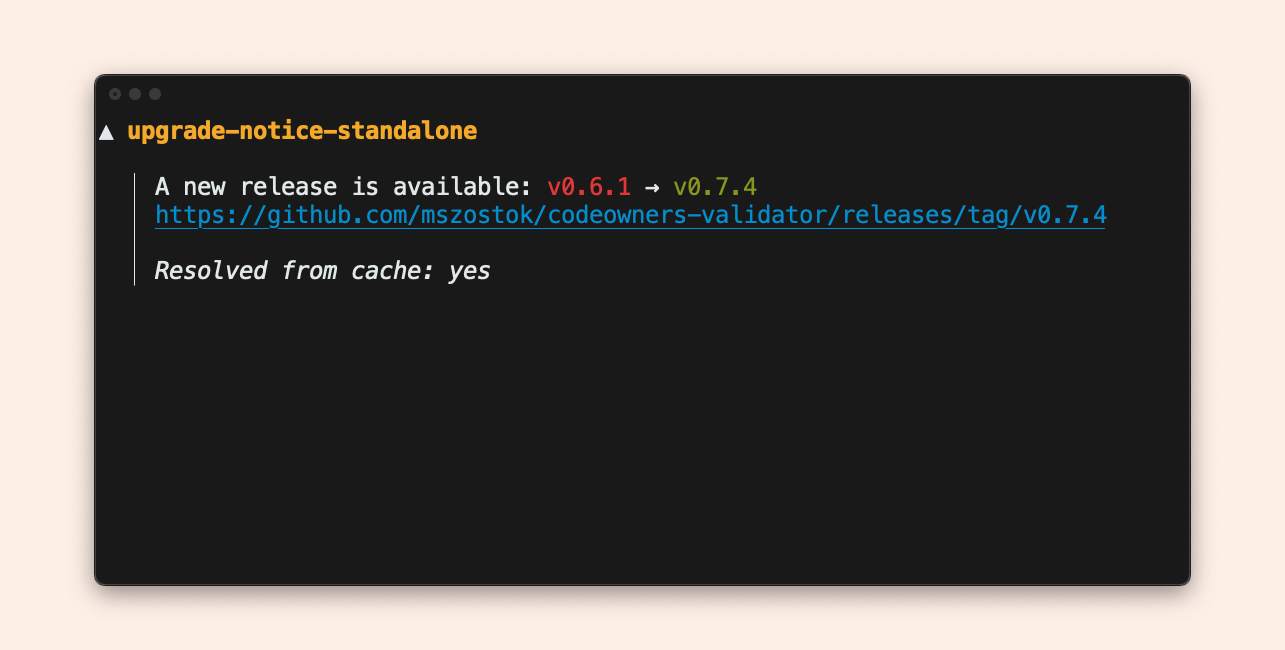
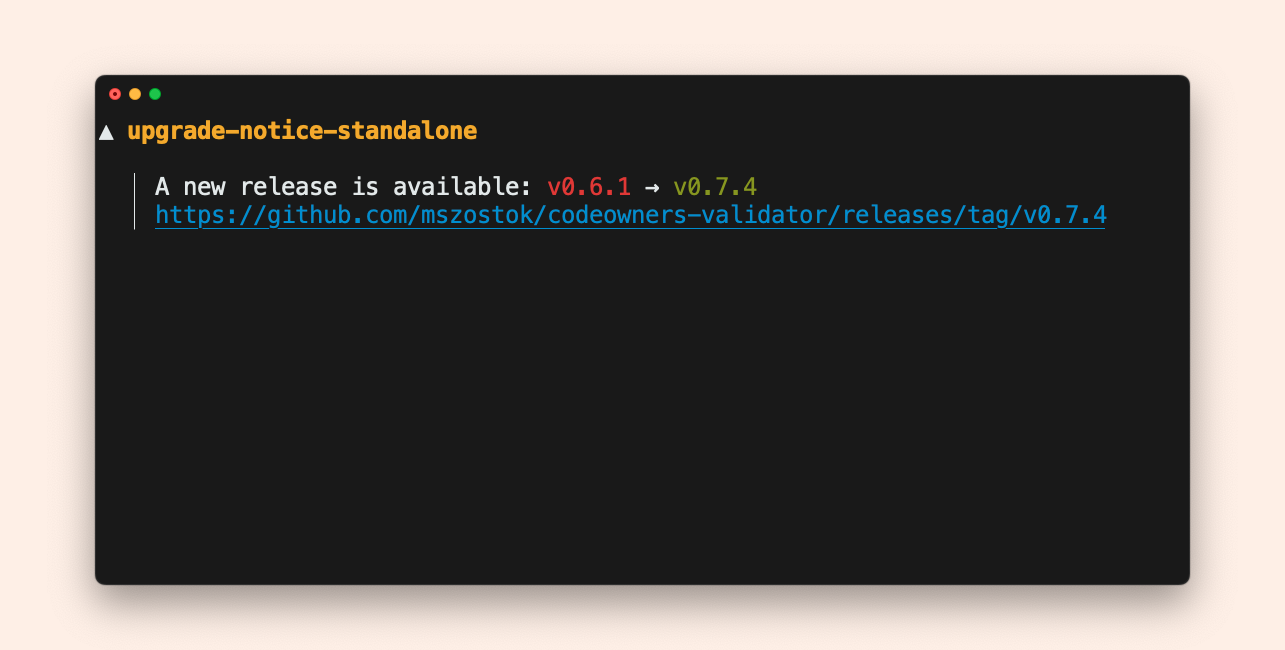
Refactor github upgrade detector (#52)

Changed region(s): [[0.0934, 0.9231, 0.9027, 0.9538], [0.1245, 0.4, 0.4047, 0.4308], [0.0623, 0.1231, 0.1245, 0.1538]]

diff --git a/upgrade/github.go b/upgrade/github.go
@@ -13,6 +13,7 @@ import (
 
 	"go.szostok.io/version/style"
 	"go.szostok.io/version/term"
+	"go.szostok.io/version/upgrade/github"
 )
 
 var defaultLayoutGoTpl = `
@@ -76,9 +77,31 @@ type LookForLatestReleaseInput struct {
 	CurrentVersion string
 }
 
-// LookForLatestRelease if a given time elapsed, check project's latest release.
+// LookForLatestRelease checks project's latest release. In most cases, PrintIfFoundGreater is better option.
+//
+// Deprecated and will be removed in 1.4.0 release, use LookForGreaterRelease instead.
+//
+//	Old: LookForLatestRelease(upgrade.LookForLatestReleaseInput{CurrentVersion: currentVersion})
+//	New: LookForGreaterRelease(upgrade.LookForGreaterReleaseInput{CurrentVersion: currentVersion})
 func (gh *GitHubDetector) LookForLatestRelease(in LookForLatestReleaseInput) (LookForLatestReleaseOutput, error) {
-	var empty LookForLatestReleaseOutput
+	out, err := gh.LookForGreaterRelease(LookForGreaterReleaseInput(in))
+	return LookForLatestReleaseOutput(out), err
+}
+
+// LookForGreaterReleaseOutput holds output data for LookForGreaterRelease function.
+type LookForGreaterReleaseOutput struct {
+	Found       bool
+	ReleaseInfo *Info
+}
+
+// LookForGreaterReleaseInput holds input data for LookForGreaterRelease function.
+type LookForGreaterReleaseInput struct {
+	CurrentVersion string
+}
+
+// LookForGreaterRelease checks project's latest release. In most cases, PrintIfFoundGreater is better option.
+func (gh *GitHubDetector) LookForGreaterRelease(in LookForGreaterReleaseInput) (LookForGreaterReleaseOutput, error) {
+	var empty LookForGreaterReleaseOutput
 	if err := gh.validate(); err != nil { // TODO: move to constructor
 		return empty, err
 	}
@@ -86,9 +109,7 @@ func (gh *GitHubDetector) LookForLatestRelease(in LookForLatestReleaseInput) (Lo
 	ctx, cancel := context.WithTimeout(context.Background(), gh.updateCheckTimeout)
 	defer cancel()
 
-	statePath := gh.getStateFilePath()
-
-	rel, err := GetLatestRelease(ctx, statePath, gh.repo, gh.recheckInterval)
+	rel, err := gh.getReleaseInfo(ctx)
 	if err != nil || rel == nil {
 		return empty, err
 	}
@@ -96,7 +117,7 @@ func (gh *GitHubDetector) LookForLatestRelease(in LookForLatestReleaseInput) (Lo
 		return empty, err
 	}
 
-	return LookForLatestReleaseOutput{
+	return LookForGreaterReleaseOutput{
 		Found: true,
 		ReleaseInfo: &Info{
 			Version:     in.CurrentVersion,
@@ -108,9 +129,9 @@ func (gh *GitHubDetector) LookForLatestRelease(in LookForLatestReleaseInput) (Lo
 }
 
 // PrintIfFoundGreater prints an upgrade notice if a newer version is available.
-// It's a syntax sugar for using the LookForLatestRelease and Render functions.
+// It's a syntax sugar for using the LookForGreaterRelease and Render functions.
 func (gh *GitHubDetector) PrintIfFoundGreater(w io.Writer, currentVersion string) error {
-	rel, err := gh.LookForLatestRelease(LookForLatestReleaseInput{
+	rel, err := gh.LookForGreaterRelease(LookForGreaterReleaseInput{
 		CurrentVersion: currentVersion,
 	})
 	if err != nil {
@@ -127,6 +148,15 @@ func (gh *GitHubDetector) PrintIfFoundGreater(w io.Writer, currentVersion string
 
 	_, err = fmt.Fprint(w, out)
 	return err
+}
+
+func (gh *GitHubDetector) getReleaseInfo(ctx context.Context) (*github.ReleaseInfoResponse, error) {
+	if gh.recheckInterval == 0 {
+		return github.GetLatestRelease(ctx, gh.repo)
+	}
+
+	statePath := gh.getStateFilePath()
+	return github.GetLatestReleaseWithCache(ctx, gh.repo, statePath, gh.recheckInterval)
 }
 
 func (gh *GitHubDetector) getStateFilePath() string {

diff --git a/upgrade/github/head_fetch.go b/upgrade/github/head_fetch.go
@@ -1,0 +1,79 @@
+package github
+
+import (
+	"context"
+	"fmt"
+	"net/http"
+	"strings"
+	"time"
+)
+
+// The previous version used the GitHub API url (see: https://github.com/mszostok/version/blob/v1.0.0/upgrade/update.go#L47)
+// But with the official API it's easy to hit rate limiting.
+// TODO: Alternative strategy that can be implemented is based on the E-Tag. As a result we will cache API call and also have full release info.
+const gitHubLatestReleaseURLFormat = "https://github.com/%s/releases/latest"
+
+// ReleaseInfoResponse stores information about a release.
+type ReleaseInfoResponse struct {
+	IsFromCache bool   `yaml:"cached"`
+	Version     string `yaml:"version"`
+	URL         string `yaml:"URL"`
+}
+
+// GetLatestRelease returns the latest release found on GitHub.
+// The latest release is the most recent non-prerelease, non-draft release, sorted by the created_at attribute.
+// The created_at attribute is the date of the commit used for the release, and not the date when the release was drafted or published.
+func GetLatestRelease(ctx context.Context, repo string) (*ReleaseInfoResponse, error) {
+	url := fmt.Sprintf(gitHubLatestReleaseURLFormat, repo)
+
+	req, err := http.NewRequestWithContext(ctx, http.MethodHead, url, http.NoBody)
+	if err != nil {
+		return nil, err
+	}
+
+	client := newHTTPClient()
+	res, err := client.Do(req)
+	if err != nil {
+		return nil, err
+	}
+	defer res.Body.Close()
+
+	if res.StatusCode != http.StatusFound {
+		return nil, fmt.Errorf("incorrect status code: %d", res.StatusCode)
+	}
+
+	loc := res.Header.Get("Location")
+	if loc == "" {
+		return nil, fmt.Errorf("unable to determine release version")
+	}
+	version := loc[strings.LastIndex(loc, "/")+1:]
+	return &ReleaseInfoResponse{
+		Version: version,
+		URL:     loc,
+	}, nil
+}
+
+// GetLatestReleaseWithCache returns the latest release found on GitHub. If minRecheckTime not elapsed, cached version is returned.
+// The latest release is the most recent non-prerelease, non-draft release, sorted by the created_at attribute.
+// The created_at attribute is the date of the commit used for the release, and not the date when the release was drafted or published.
+func GetLatestReleaseWithCache(ctx context.Context, repo, stateFilePath string, minRecheckTime time.Duration) (*ReleaseInfoResponse, error) {
+	stateEntry, err := getStateEntry(stateFilePath)
+	if err != nil {
+		return nil, err
+	}
+
+	if stateEntry != nil && time.Since(stateEntry.CheckedForUpdateAt) < minRecheckTime {
+		return &stateEntry.ReleaseInfoResponse, nil
+	}
+
+	releaseInfo, err := GetLatestRelease(ctx, repo)
+	if err != nil {
+		return nil, err
+	}
+
+	err = saveStateEntry(stateFilePath, *releaseInfo, time.Now())
+	if err != nil {
+		return nil, err
+	}
+	return releaseInfo, nil
+}

diff --git a/tests/e2e/e2e_test.go b/tests/e2e/e2e_test.go
@@ -198,11 +198,11 @@ var cases = []TestCases{
 		dir:  "upgrade-notice-custom",
 	},
 
-	// Upgrade notice sub-command
+	// Upgrade notice standalone
 	{
-		name: "Should return upgrade notice from sub-command check",
-		cmd:  `version check`,
-		dir:  "upgrade-notice-sub-cmd",
+		name: "Should return upgrade notice from standalone command",
+		cmd:  ``,
+		dir:  "upgrade-notice-standalone",
 	},
 }
 
@@ -286,15 +286,15 @@ func TestExamplesRecheckInterval(t *testing.T) {
 	t.Parallel()
 
 	// given
-	binaryPath := buildBinaryAllLDFlags(t, "upgrade-notice-standalone")
+	binaryPath := buildBinaryAllLDFlags(t, "upgrade-notice-sub-cmd")
 
 	// when
-	result, err := Exec(binaryPath, "").
+	result, err := Exec(binaryPath, "version check").
 		AwaitResultAtMost(10 * time.Second)
 
 	// then
 	// Should return upgrade notice for the first time
-	require.NoError(t, err)
+	require.NoError(t, err, result.Stderr)
 	assert.Equal(t, 0, result.ExitCode)
 
 	data := result.Stdout + result.Stderr
@@ -302,11 +302,11 @@ func TestExamplesRecheckInterval(t *testing.T) {
 	g.Assert(t, t.Name(), []byte(data))
 
 	// when
-	result, err = Exec(binaryPath, "").
+	result, err = Exec(binaryPath, "version check").
 		AwaitResultAtMost(10 * time.Second)
 
 	// then
-	require.NoError(t, err)
+	require.NoError(t, err, result.Stderr)
 	assert.Equal(t, 0, result.ExitCode)
 	data = result.Stdout + result.Stderr
 	g = goldie.New(t, goldie.WithNameSuffix("recheck.golden.txt"))

diff --git a/upgrade/github/state_file.go b/upgrade/github/state_file.go
@@ -1,0 +1,55 @@
+package github
+
+import (
+	"os"
+	"path/filepath"
+	"time"
+
+	"gopkg.in/yaml.v3"
+)
+
+type stateEntry struct {
+	CheckedForUpdateAt  time.Time           `yaml:"checkedForUpdateAt"`
+	ReleaseInfoResponse ReleaseInfoResponse `yaml:"releaseInfoResponse"`
+}
+
+func getStateEntry(stateFilePath string) (*stateEntry, error) {
+	content, err := os.ReadFile(stateFilePath)
+	switch {
+	case err == nil:
+	case os.IsNotExist(err):
+		return nil, nil
+	default:
+		return nil, err
+	}
+
+	var state stateEntry
+	err = yaml.Unmarshal(content, &state)
+	if err != nil {
+		return nil, err
+	}
+
+	state.ReleaseInfoResponse.IsFromCache = true
+	return &state, nil
+}
+
+func saveStateEntry(stateFilePath string, info ReleaseInfoResponse, t time.Time) error {
+	info.IsFromCache = true
+	data := stateEntry{
+		CheckedForUpdateAt:  t,
+		ReleaseInfoResponse: info,
+	}
+
+	content, err := yaml.Marshal(data)
+	if err != nil {
+		return err
+	}
+
+	err = os.MkdirAll(filepath.Dir(stateFilePath), 0o755)
+	if err != nil {
+		return err
+	}
+
+	err = os.WriteFile(stateFilePath, content, 0o600)
+	return err
+}

diff --git a/examples/upgrade-notice-sub-cmd/main.go b/examples/upgrade-notice-sub-cmd/main.go
@@ -8,8 +8,16 @@ import (
 
 	"go.szostok.io/version"
 	"go.szostok.io/version/extension"
+	"go.szostok.io/version/style"
 	"go.szostok.io/version/upgrade"
 )
+
+var layoutGoTpl = `
+  │ A new release is available: {{ .Version | Red }} → {{ .NewVersion | Green }}
+  │ {{ .ReleaseURL  | Underline | Blue }}
+  │
+  │ {{ "Resolved from cache:" | Italic }} {{ .IsFromCache | FmtBool | Italic }}
+`
 
 func NewVersionWithCheck() *cobra.Command {
 	verCmd := extension.NewVersionCobraCmd()
@@ -21,6 +29,10 @@ func NewVersionWithCheck() *cobra.Command {
 			ghUpgrade := upgrade.NewGitHubDetector(
 				"mszostok", "codeowners-validator",
 				upgrade.WithMinElapseTimeForRecheck(30*time.Second),
+				upgrade.WithLayout(&style.Layout{
+					// Learn more at https://version.szostok.io/customization/upgrade-notice/layout/
+					GoTemplate: layoutGoTpl,
+				}),
 			)
 			return ghUpgrade.PrintIfFoundGreater(cmd.ErrOrStderr(), version.Get().Version)
 		},

diff --git a/examples/upgrade-notice-standalone/main.go b/examples/upgrade-notice-standalone/main.go
@@ -3,7 +3,6 @@ package main
 import (
 	"log"
 	"os"
-	"time"
 
 	"go.szostok.io/version"
 	"go.szostok.io/version/style"
@@ -13,8 +12,6 @@ import (
 var layoutGoTpl = `
   │ A new release is available: {{ .Version | Red }} → {{ .NewVersion | Green }}
   │ {{ .ReleaseURL  | Underline | Blue }}
-  │
-  │ {{ "Resolved from cache:" | Italic }} {{ .IsFromCache | FmtBool | Italic }}
 `
 
 func main() {
@@ -23,7 +20,6 @@ func main() {
 			// Learn more at https://version.szostok.io/customization/upgrade-notice/layout/
 			GoTemplate: layoutGoTpl,
 		}),
-		upgrade.WithMinElapseTimeForRecheck(time.Second * 30),
 	}
 
 	ghUpgrade := upgrade.NewGitHubDetector(

diff --git a/upgrade/options.go b/upgrade/options.go
@@ -82,6 +82,7 @@ func WithIsVersionGreater(comparator IsVerGreaterFunc) Options {
 }
 
 // WithMinElapseTimeForRecheck sets the minimum time that must elapse before checking for a new release.
+// When interval > 0, a state file is created. If interval = 0, state file is not created and each time external call is executed.
 // Defaults to 0.
 func WithMinElapseTimeForRecheck(interval time.Duration) Options {
 	return func(options *GitHubDetector) {

diff --git a/tests/e2e/helpers_test.go b/tests/e2e/helpers_test.go
@@ -78,7 +78,11 @@ func (s *Executor) AwaitResultAtMost(timeout time.Duration) (*ExecuteOutput, err
 
 	exitCode, err := s.execute(timeout, &buffOut, &buffErr)
 	if err != nil {
-		return nil, err
+		return &ExecuteOutput{
+			ExitCode: exitCode,
+			Stdout:   buffOut.String(),
+			Stderr:   buffErr.String(),
+		}, err
 	}
 
 	return &ExecuteOutput{

diff --git a/upgrade/github/http.go b/upgrade/github/http.go
@@ -1,4 +1,4 @@
-package upgrade
+package github
 
 import (
 	"net/http"
